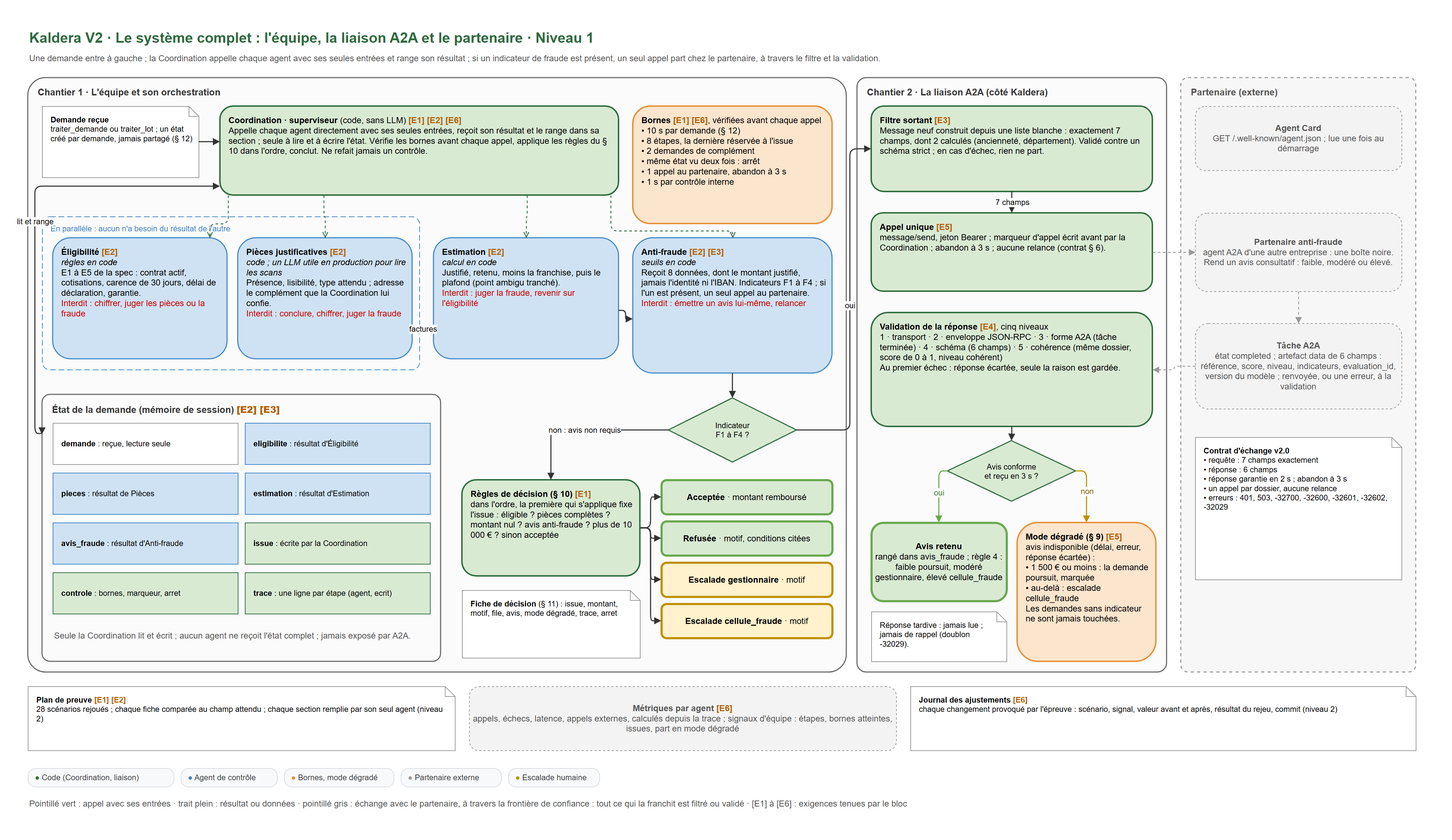
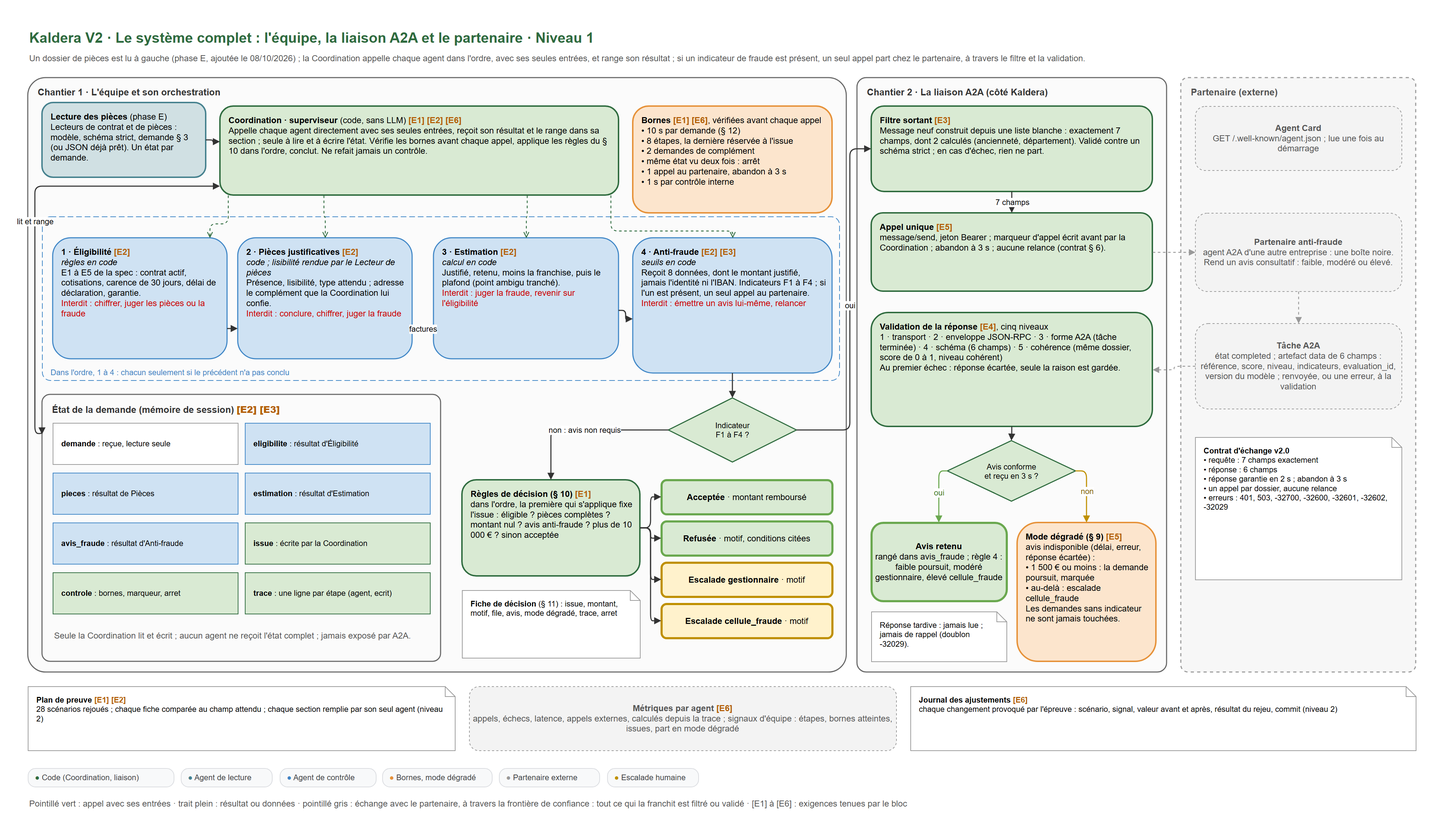
docs(schemas): lecture des pieces (schema E), carte des agents et N1 alignees sur le code
- schema E nouveau : du dossier de pieces (contrat PDF, images) au JSON de la spec 3,
  controles en code d'abord, modele avec schema strict, chemins illisible et panne
- schema 1 et N1 : les quatre controles en sequence avec court-circuit (et non plus
  en parallele), les deux agents de lecture en amont de la Coordination

diff --git a/scripts/make_schemas_ch1.py b/scripts/make_schemas_ch1.py
@@ -13,67 +13,105 @@ CENTRE = "align=center;verticalAlign=middle;spacingLeft=0;"
 # =============================================================================================================
 s = Schema()
 s.box("t", "Kaldera V2 · Carte des agents · Chantier 1", 30, 20, 1000, 30, S_TITRE)
-s.box("st", "Rôles, frontières, point ambigu tranché, dépendances et parallélisme. Fondé sur specs_metier.md (v3.2) "
-            "et interface.md : une section métier n'est écrite que par un seul agent, et un agent n'écrit qu'une seule section.",
-      30, 54, 1300, 22, S_SOUS)
+s.box("st", "Rôles, frontières, ordre d'exécution et point ambigu tranché. Mis à jour le 08/10/2026 : lecture des pièces "
+            "en amont (phase E), contrôles en séquence avec court-circuit (coordination.derouler).",
+      30, 54, 1360, 22, S_SOUS)
 
+# --- en amont : lecture des pièces (phase E) ---
+s.box("lect", "Avant la Coordination · Lecture des pièces (phase E), hors des 10 s de décision", 30, 88, 1360, 152,
+      S_CONTENEUR)
+s.box("docs", "<b>Pièces de l'assuré</b>, non structurées<br>contrat.pdf · images des pièces jointes (factures, photos, "
+              "dépôt de plainte) · dépôts de l'espace assuré · formulaire declaration.json",
+      50, 123, 290, 105, S_NOTE)
+s.box("lc", "<b>Lecteur de contrat</b> (modèle, schéma strict)<br>Texte du PDF : numéro, formule, date, statut, "
+            "cotisations.<br>" + ROUGE_TXT + "décider, deviner un champ." + FIN, 380, 123, 300, 105, S_LECTEUR)
+s.box("lp", "<b>Lecteur de pièces</b> (netteté en code, puis modèle)<br>Floue : illisible sans appel. Facture nette : "
+            "montant lu. Dans le doute : illisible.<br>" + ROUGE_TXT + "décider, inventer un montant." + FIN,
+      740, 123, 290, 105, S_LECTEUR)
+s.box("json", "<b>Demande au format § 3</b><br>la même que sur le chemin JSON. Contrat lu différent du déclaré, ou "
+              "modèle en panne : escalade gestionnaire, aucun contrôle lancé.", 1070, 123, 300, 105, S_NOTE)
+s.edge("r1", "docs", "lc", E_DEP, "", sortie=(1, 0.5), entree=(0, 0.5))
+s.edge("r2", "lc", "lp", E_DEP, "numéro<br>conforme", sortie=(1, 0.5), entree=(0, 0.5))
+s.edge("r3", "lp", "json", E_DEP, "", sortie=(1, 0.5), entree=(0, 0.5))
+s.edge("r4", "json", "orch", E_DEP, "demande § 3", sortie=(0.5, 1), entree=(0.9554, 0))
+
+# --- la Coordination et les quatre contrôles, dans l'ordre ---
 s.box("orch", "<b>Coordination</b> (code, sans LLM) · <b>écrit : issue</b> · seule à lire et à écrire l'état<br>"
-              "Délègue chaque contrôle, vérifie les bornes, applique les règles de décision dans l'ordre (spec § 10), "
-              "conclut la demande. Seule à conclure.<br>"
+              "Délègue chaque contrôle dans l'ordre, vérifie les bornes, applique les règles de décision (spec § 10) "
+              "et conclut dès qu'une règle s'applique. Seule à conclure.<br>"
               + ROUGE_TXT + "refaire un contrôle (éligibilité, pièces, montant, fraude)." + FIN,
-      380, 95, 700, 82, S_ORCH)
+      150, 270, 1120, 78, S_ORCH)
 
-s.box("par", "Exécutés en parallèle : aucun n'a besoin du résultat de l'autre", 30, 225, 440, 420, S_GROUPE)
-s.box("elig", "<b>Éligibilité</b> (règles en code) · <b>section : eligibilite</b><br><br>"
+s.box("elig", "<b>1 · Éligibilité</b> (règles en code) · <b>section : eligibilite</b><br><br>"
               "Vérifie E1 à E5 : contrat actif, cotisations, carence de 30 jours, délai de déclaration, garantie de la formule.<br>"
               "Renvoie : éligible oui ou non, conditions non remplies.<br><br>"
-              + ROUGE_TXT + "chiffrer la demande, appliquer le plafond, juger les pièces ou la fraude." + FIN,
-      50, 255, 400, 175, S_AGENT)
-s.box("pieces", "<b>Pièces justificatives</b> (code) · <b>section : pieces</b><br><br>"
-                "Vérifie présence, lisibilité et type attendu des pièces exigées. Adresse le complément via l'espace "
-                "assuré quand la Coordination le lui confie (demande éligible).<br>"
+              + ROUGE_TXT + "chiffrer, appliquer le plafond, juger les pièces ou la fraude." + FIN,
+      30, 395, 290, 180, S_AGENT)
+s.box("pieces", "<b>2 · Pièces justificatives</b> (code) · <b>section : pieces</b><br><br>"
+                "Vérifie présence, lisibilité (rendue par le Lecteur de pièces) et type attendu. Adresse le complément "
+                "quand la Coordination le lui confie, 2 fois au plus.<br>"
                 "Renvoie : complet, ou manquantes ; les factures lisibles.<br><br>"
-                + ROUGE_TXT + "conclure ou escalader la demande, chiffrer, juger la fraude, décider seul d'un complément." + FIN,
-      50, 445, 400, 185, S_AGENT)
-s.box("estim", "<b>Estimation</b> (règles en code) · <b>section : estimation</b><br><br>"
+                + ROUGE_TXT + "conclure, chiffrer, juger la fraude, décider seul d'un complément." + FIN,
+      386, 395, 290, 180, S_AGENT)
+s.box("estim", "<b>3 · Estimation</b> (règles en code) · <b>section : estimation</b><br><br>"
                "Montant justifié (factures lisibles), montant retenu (le plus petit des deux), "
                "moins la franchise, puis <b>plafond de la formule</b>.<br>"
                "Renvoie : montant justifié et montant estimé.<br><br>"
                + ROUGE_TXT + "juger la fraude, revenir sur l'éligibilité." + FIN,
-      540, 255, 360, 200, S_AGENT)
-s.box("fraude", "<b>Anti-fraude, liaison avec le partenaire</b> (code) · <b>section : avis_fraude</b><br><br>"
-                "Calcule les indicateurs F1 à F4. Si au moins un : un seul appel au partenaire, puis contrôle de sa réponse.<br>"
+      742, 395, 290, 180, S_AGENT)
+s.box("fraude", "<b>4 · Anti-fraude, liaison avec le partenaire</b> (code) · <b>section : avis_fraude</b><br><br>"
+                "Indicateurs F1 à F4. Si au moins un : un seul appel au partenaire, puis contrôle de sa réponse.<br>"
                 "Renvoie : non requis, avis (niveau et score), ou indisponible.<br><br>"
                 + ROUGE_TXT + "émettre un avis en interne, envoyer une donnée hors contrat, relancer un appel." + FIN,
-      1030, 255, 360, 220, S_AGENT)
+      1098, 395, 290, 180, S_AGENT)
+
+s.edge("d1", "orch", "elig", E_DELEG, "délègue", sortie=(0.0223, 1), entree=(0.5, 0))
+s.edge("d2", "orch", "pieces", E_DELEG, "", sortie=(0.3402, 1), entree=(0.5, 0))
+s.edge("d3", "orch", "estim", E_DELEG, "", sortie=(0.658, 1), entree=(0.5, 0))
+s.edge("d4", "orch", "fraude", E_DELEG, "", sortie=(0.9759, 1), entree=(0.5, 0))
+s.edge("s1", "elig", "pieces", E_DEP, "si<br>éligible", sortie=(1, 0.3), entree=(0, 0.3))
+s.edge("s2", "pieces", "estim", E_DEP, "si complet :<br>factures<br>lisibles", sortie=(1, 0.3), entree=(0, 0.3))
+s.edge("s3", "estim", "fraude", E_DEP, "si montant<br>> 0 :<br>montant<br>justifié", sortie=(1, 0.3), entree=(0, 0.3))
+
+# --- les courts-circuits : la Coordination conclut sans lancer la suite ---
+s.box("stop1", "Non éligible : <b>refusée</b> (règle 1)<br>les pièces ne sont jamais vérifiées", 30, 600, 290, 62, S_FIN_OK)
+s.box("stop2", "Pièces encore manquantes, ou aucun dépôt : <b>escalade gestionnaire</b> (règle 2)",
+      386, 600, 290, 62, S_FIN_ESC)
+s.box("stop3", "Montant nul après la franchise : <b>refusée</b> (règle 3)", 742, 600, 290, 62, S_FIN_OK)
+s.edge("k1", "elig", "stop1", E_OK, "non", sortie=(0.5, 1), entree=(0.5, 0))
+s.edge("k2", "pieces", "stop2", E_ESC, "non", sortie=(0.5, 1), entree=(0.5, 0))
+s.edge("k3", "estim", "stop3", E_OK, "non", sortie=(0.5, 1), entree=(0.5, 0))
+
 s.box("partenaire", "<b>Partenaire anti-fraude</b> (agent A2A externe)<br>"
                     "rend l'avis : faible, modéré ou élevé · contrat, filtre et mode dégradé : chantier 2",
-      1045, 600, 330, 80, S_EXT)
+      1098, 625, 290, 80, S_EXT)
+s.edge("x1", "fraude", "partenaire", E_EXT, "si au moins un indicateur", sortie=(0.3, 1), entree=(0.3, 0))
+s.edge("x2", "partenaire", "fraude", E_EXT, "avis à contrôler", sortie=(0.8, 0), entree=(0.8, 1))
 
-s.box("ambig", "<b>Point ambigu tranché : qui applique le plafond ?</b><br><br>"
-               "La spec range le plafond dans l'éligibilité (§ 4), mais « le contrôle d'éligibilité ne chiffre pas » (§ 2), "
-               "et l'estimation (§ 6) ne le cite pas. <b>Choix : l'Estimation</b>, parce que le plafond est un calcul de montant.<br><br>"
-               "<i>Preuve, scénario NOM-05 : 4 200 € déclarés, moins 300 € de franchise = 3 900 €, plafonnés à 3 000 €.</i>",
-      500, 560, 460, 190, S_AMBIG)
 s.box("autres", "<b>Autres frontières tranchées</b><br>"
                 "• Pièces manquantes : constatées par Pièces ; l'escalade est décidée par la Coordination (règle 2).<br>"
                 "• Montant justifié : calculé par l'Estimation (§ 6), à partir des factures lisibles fournies par Pièces.<br>"
                 "• Indicateurs F1 à F4 : Anti-fraude, après l'Estimation, car F4 compare le montant déclaré au montant justifié.",
-      30, 670, 440, 130, S_NOTE)
+      30, 735, 440, 130, S_NOTE)
+s.box("ambig", "<b>Point ambigu tranché : qui applique le plafond ?</b><br><br>"
+               "La spec range le plafond dans l'éligibilité (§ 4), mais « le contrôle d'éligibilité ne chiffre pas » (§ 2), "
+               "et l'estimation (§ 6) ne le cite pas. <b>Choix : l'Estimation</b>, parce que le plafond est un calcul de montant.<br><br>"
+               "<i>Preuve, scénario NOM-05 : 4 200 € déclarés, moins 300 € de franchise = 3 900 €, plafonnés à 3 000 €.</i>",
+      500, 735, 460, 160, S_AMBIG)
+s.box("ordre", "<b>Ordre et court-circuit</b> (coordination.derouler)<br>"
+               "1 Éligibilité, 2 Pièces (avec 2 compléments au plus), 3 Estimation, 4 Anti-fraude. Un contrôle n'est "
+               "lancé que si le précédent n'a pas conclu : une demande non éligible ne fait jamais vérifier ses pièces. "
+               "C'est la Coordination qui conclut, jamais l'agent.<br>"
+               "Après l'Anti-fraude : règle 4 (avis modéré ou élevé, mode dégradé), règle 5 (plus de 10 000 € : "
+               "gestionnaire), règle 6 (acceptée).", 990, 735, 400, 150, S_NOTE)
 
-s.edge("d1", "orch", "elig", E_DELEG, "délègue", [(420, 205), (410, 205)], sortie=(0.06, 1), entree=(0.9, 0))
-s.edge("d2", "orch", "estim", E_DELEG, "délègue", sortie=(0.4, 1), entree=(0.5, 0))
-s.edge("d3", "orch", "fraude", E_DELEG, "délègue", [(1000, 215), (1210, 215)], sortie=(0.89, 1), entree=(0.5, 0))
-s.edge("p1", "pieces", "estim", E_DEP, "factures lisibles", [(495, 540), (495, 400)], sortie=(1, 0.5), entree=(0, 0.6))
-s.edge("p2", "estim", "fraude", E_DEP, "montant justifié (pour F4)", sortie=(1, 0.5), entree=(0, 0.5))
-s.edge("x1", "fraude", "partenaire", E_EXT, "si au moins un indicateur", sortie=(0.4, 1), entree=(0.4, 0))
-s.edge("x2", "partenaire", "fraude", E_EXT, "avis à contrôler", [(1325, 560)], sortie=(0.85, 0), entree=(0.81, 1))
-
-s.legende([(VERT, "Code (coordination)"), (BLEU, "Agent de contrôle"), (ORANGE, "Point ambigu tranché"),
-           (ROUGE, "Frontière : interdit"), (GRIS, "Externe ou chantier 2")], 30, 830)
-s.box("lg2", "Trait plein : dépendance de données · pointillé vert : délégation · « section » : celle que remplit le résultat de l'agent, rangé par la Coordination",
-      30, 866, 900, 20, S_SOUS)
-s.ecrire("schema-1-carte-des-agents", "Carte des agents", 1420, 900)
+s.legende([(VERT, "Code (coordination)"), (CYAN, "Agent de lecture"), (BLEU, "Agent de contrôle"),
+           (ORANGE, "Point ambigu tranché"), (ROUGE, "Frontière : interdit"), (OK, "Décision"), (ESC, "Escalade"),
+           (GRIS, "Externe ou chantier 2")], 30, 920)
+s.box("lg2", "Trait plein : ordre ou données · pointillé vert : délégation · « section » : celle que remplit le résultat "
+             "de l'agent, rangé par la Coordination · agent de lecture : sa sortie est validée par un schéma strict",
+      30, 956, 1300, 20, S_SOUS)
+s.ecrire("schema-1-carte-des-agents", "Carte des agents", 1420, 990)
 
 # =============================================================================================================
 # Schéma 2 : l'orchestration et la terminaison garantie

diff --git a/scripts/make_schema_lecture.py b/scripts/make_schema_lecture.py
@@ -1,0 +1,97 @@
+# Schéma E de Kaldera V2 : la lecture des pièces (phase E), du document non structuré au JSON de la spec § 3.
+# Ajouté le 08/10/2026 : l'entrée réelle est un dossier de pièces (contrat PDF, photos de factures), et non un JSON.
+# Fondé sur le code du dépôt kaldera-bout-en-bout_v2 : src/kaldera/extraction/lecteurs.py et dossier.py.
+# Palette, styles et classe Schema : schema_commun.py.
+
+from schema_commun import *  # noqa: F403 (palette, styles, Schema)
+
+s = Schema()
+s.box("t", "Kaldera V2 · Lecture des pièces : du document au JSON de la spec § 3 · Phase E", 30, 20, 1300, 30, S_TITRE)
+s.box("st", "Les agents de lecture lisent et extraient, ils ne décident jamais. Le code teste d'abord ce qu'il sait "
+            "tester ; le modèle ne lit que ce que le code ne sait pas lire ; sa réponse passe par un schéma strict. "
+            "La chaîne de décision du chantier 1 reste inchangée.", 30, 54, 1540, 22, S_SOUS)
+
+# --- le dossier de l'assuré ---
+s.box("dos", "Dossier de l'assuré (dossiers/KAL-26-0101)", 30, 95, 300, 600, S_CONTENEUR)
+s.box("f_decl", "<b>declaration.json</b><br>formulaire : référence, assuré, sinistre, historique, numéro de contrat "
+                "déclaré", 45, 135, 270, 80, S_NOTE)
+s.box("f_ctr", "<b>contrat.pdf</b><br>texte, 3 mises en page", 45, 230, 270, 60, S_NOTE)
+s.box("f_fac", "<b>piece-1-facture.png</b><br>photo d'une facture", 45, 365, 270, 60, S_NOTE)
+s.box("f_pho", "<b>piece-2-photo.png</b>, <b>…-depot_plainte.png</b><br>le type vient du créneau choisi par "
+               "l'assuré", 45, 440, 270, 80, S_NOTE)
+s.box("f_dep", "<b>depots/1-facture.png</b><br>dépôts de l'espace assuré (compléments)", 45, 535, 270, 65, S_NOTE)
+s.box("f_n", "34 dossiers générés depuis les 34 demandes des scénarios : 34 PDF, 68 images (2 illisibles), 35 JSON.",
+      45, 615, 270, 70, S_SOUS)
+
+# --- lecteur de contrat ---
+s.box("gc", "Lecteur de contrat · lecteurs.lire_contrat · reçoit un PDF", 360, 95, 880, 200, S_GROUPE)
+s.box("c1", "<b>1 · Code</b><br>PyMuPDF extrait le texte du PDF, quelle que soit sa mise en page", 380, 130, 230, 95,
+      S_ORCH)
+s.box("c2", "<b>2 · Modèle</b> gpt-5.4 (Azure AI Foundry)<br>consigne, phrase de garde, texte entre balises<br>"
+            "→ schéma strict <b>ContratLu</b> : formule et statut en liste fermée, date valide, aucun champ en plus",
+      640, 130, 300, 145, S_LECTEUR)
+s.box("dnum", "Numéro lu =<br>numéro déclaré ?", 980, 135, 220, 110, S_LOSANGE)
+s.box("esc_num", "<b>Escalade gestionnaire</b><br>contrat lu différent du contrat déclaré : aucun contrôle lancé "
+                 "(escalade_directe)", 1270, 140, 300, 100, S_FIN_ESC)
+s.edge("e_c", "f_ctr", "c1", E_DEP, "", sortie=(1, 0.5), entree=(0, 0.5))
+s.edge("c12", "c1", "c2", E_DEP, "texte", sortie=(1, 0.5), entree=(0, 0.33))
+s.edge("c23", "c2", "dnum", E_DEP, "", sortie=(1, 0.4), entree=(0, 0.5))
+s.edge("cnon", "dnum", "esc_num", E_ESC, "non", sortie=(1, 0.5), entree=(0, 0.5))
+s.edge("coui", "dnum", "p1", E_OK, "oui : on lit les pièces", [(1090, 307), (495, 307)], sortie=(0.5, 1),
+       entree=(0.5, 0))
+
+# --- lecteur de pièces ---
+s.box("gp", "Lecteur de pièces · lecteurs.lire_piece · reçoit une image et son type", 360, 320, 1210, 390, S_GROUPE + "align=right;spacingRight=12;")
+s.box("p1", "<b>1 · Code</b><br>netteté de l'image (moyenne des contours) ; seuil 3,5, mesuré sur les 68 images",
+      380, 355, 230, 95, S_ORCH)
+s.box("dnet", "Nette ?", 640, 350, 170, 105, S_LOSANGE)
+s.box("p_flou", "<b>illisible</b><br>sans appel au modèle", 640, 485, 170, 70, S_NOTE)
+s.box("dtype", "Facture ?", 840, 350, 170, 105, S_LOSANGE)
+s.box("p_autre", "photo, dépôt de plainte :<br><b>lisible</b> (contenu non vérifié)", 840, 485, 170, 85, S_NOTE)
+s.box("p2", "<b>2 · Modèle</b><br>l'image et la phrase de garde → schéma strict <b>FactureLue</b> : lisible, "
+            "montant TTC", 1052, 340, 176, 125, S_LECTEUR)
+s.box("ddoute", "Lisible, montant<br>présent, positif ?", 1040, 490, 200, 110, S_LOSANGE)
+s.box("p_ok", "<b>lisible</b> et montant, arrondi au centime", 1290, 515, 260, 60, S_NOTE)
+s.box("p_dout", "<b>illisible</b> : dans le doute, jamais un montant inventé", 1040, 625, 200, 70, S_NOTE)
+for k, (fid, entree) in enumerate((("f_fac", 0.3), ("f_pho", 0.6), ("f_dep", 0.9))):
+    s.edge(f"e_p{k}", fid, "p1", E_DEP, "", sortie=(1, 0.5), entree=(0, entree))
+s.edge("p1n", "p1", "dnet", E_DEP, "", sortie=(1, 0.5), entree=(0, 0.5))
+s.edge("nnon", "dnet", "p_flou", E_DEP, "non", sortie=(0.5, 1), entree=(0.5, 0))
+s.edge("noui", "dnet", "dtype", E_DEP, "oui", sortie=(1, 0.5), entree=(0, 0.5))
+s.edge("tnon", "dtype", "p_autre", E_DEP, "non", sortie=(0.5, 1), entree=(0.5, 0))
+s.edge("toui", "dtype", "p2", E_DEP, "oui", sortie=(1, 0.5), entree=(0, 0.5))
+s.edge("p2d", "p2", "ddoute", E_DEP, "", sortie=(0.5, 1), entree=(0.5, 0))
+s.edge("doui", "ddoute", "p_ok", E_OK, "oui", sortie=(1, 0.5), entree=(0, 0.5))
+s.edge("dnon", "ddoute", "p_dout", E_DEP, "non", sortie=(0.5, 1), entree=(0.5, 0))
+
+# --- sorties : panne, demande § 3, chaîne de décision ---
+s.box("panne", "<b>Modèle en panne, délai ou réponse hors schéma</b> → ExtractionImpossible<br>"
+               "<b>Escalade gestionnaire</b> motivée, aucun contrôle lancé. Une panne n'est pas la faute de l'assuré : "
+               "on ne lui demande pas de complément.", 360, 735, 560, 105, S_FIN_ESC)
+s.box("json", "<b>Demande au format § 3</b><br>contrat lu, pièces et dépôts lus, formulaire ; identique à ce que "
+              "reçoit le chemin JSON", 950, 735, 300, 105, S_NOTE)
+s.box("chaine", "<b>Chaîne du chantier 1, inchangée</b><br>coordination.traiter : Éligibilité, Pièces, Estimation, "
+                "Anti-fraude, règles § 10, fiche de décision", 1280, 735, 290, 105, S_ORCH)
+s.edge("gpan", "gp", "panne", E_ESC, "lecture impossible (contrat ou facture)", sortie=(0.15, 1), entree=(0.3232, 0))
+s.edge("gjs", "gp", "json", E_DEP, "contrat, pièces et dépôts lus", sortie=(0.5496, 1), entree=(0.25, 0))
+s.edge("form", "dos", "json", E_DEP, "formulaire (declaration.json)", [(180, 875), (1100, 875)], sortie=(0.5, 1),
+       entree=(0.5, 1))
+s.edge("jch", "json", "chaine", E_DEP, "", sortie=(1, 0.5), entree=(0, 0.5))
+
+# --- garde-fous et mesure ---
+s.box("garde", "<b>Garde-fous</b><br>• Le texte d'un document est une donnée, jamais une consigne : phrase de garde "
+               "dans chaque consigne, document entre balises.<br>• Clé dans .env, jamais dans le code ni dans Git ; "
+               "délai de 60 s, aucune relance automatique.<br>• Lecture tracée à part (agent, fichier, statut, durée, "
+               "appel au modèle), avant les 10 s de la chaîne de décision.", 30, 900, 760, 110, S_NOTE)
+s.box("mesure", "<b>Mesure E4</b> (08/10/2026, 34 dossiers, gpt-5.4)<br>100 % sur chaque champ (5 du contrat, "
+                "33 montants, 68 lisibilités) · 34/34 décisions identiques au chemin JSON · 0 lecture impossible · "
+                "67 appels en 25,1 s (6 en parallèle) · facture : moyenne 2,35 s, max 6,46 s.<br>"
+                "<i>Limites : documents de synthèse et propres ; 2 images illisibles seulement, attrapées par le code ; "
+                "le contenu des photos n'est pas vérifié.</i>", 810, 900, 760, 110, S_AMBIG)
+
+s.legende([(VERT, "Code, sans modèle"), (CYAN, "Modèle, schéma strict"), (OK, "Suite normale"),
+           (ESC, "Escalade gestionnaire"), (ORANGE, "Mesure")], 30, 1030)
+s.box("lg2", "Losange : test en code · note : résultat de lecture · « illisible » mène à une demande de complément "
+             "(règle 2) ; une panne mène à une escalade, jamais à une demande faite à l'assuré",
+      30, 1066, 1400, 20, S_SOUS)
+s.ecrire("schema-E-lecture-des-pieces", "Lecture des pièces", 1600, 1100)

diff --git a/scripts/make_schemas_vues.py b/scripts/make_schemas_vues.py
@@ -1,5 +1,6 @@
 # Vues d'ensemble de Kaldera V2, en trois niveaux : N0 les enjeux et les six exigences, N1 le système complet
-# (chantier 1, chantier 2 et partenaire), N2 l'épreuve du réel. Fondées sur l'état de la conception au 07/10/2026.
+# (chantier 1, chantier 2 et partenaire), N2 l'épreuve du réel. Fondées sur l'état de la conception au 07/10/2026 ;
+# N1 mis à jour le 08/10/2026 (lecture des pièces, contrôles dans l'ordre).
 # Palette, styles et classe Schema : schema_commun.py.
 
 from schema_commun import *  # noqa: F403 (palette, styles, Schema)
@@ -78,8 +79,9 @@ s.ecrire("schema-N0-enjeux-exigences", "Niveau 0 · Enjeux et exigences", 1500, 
 # =============================================================================================================
 s = Schema()
 s.box("t", "Kaldera V2 · Le système complet : l'équipe, la liaison A2A et le partenaire · Niveau 1", 30, 20, 1500, 30, S_TITRE)
-s.box("st", "Une demande entre à gauche ; la Coordination appelle chaque agent avec ses seules entrées et range son résultat ; "
-            "si un indicateur de fraude est présent, un seul appel part chez le partenaire, à travers le filtre et la validation.",
+s.box("st", "Un dossier de pièces est lu à gauche (phase E, ajoutée le 08/10/2026) ; la Coordination appelle chaque agent dans "
+            "l'ordre, avec ses seules entrées, et range son résultat ; si un indicateur de fraude est présent, un seul appel part "
+            "chez le partenaire, à travers le filtre et la validation.",
       30, 54, 1900, 22, S_SOUS)
 
 s.box("ch1", "Chantier 1 · L'équipe et son orchestration", 30, 95, 1150, 835, S_CONTENEUR)
@@ -88,8 +90,9 @@ s.box("ext", "Partenaire (externe)", 1650, 95, 330, 835,
       S_CONTENEUR + f"fillColor=#f7f7f7;strokeColor={GRIS};dashed=1;fontColor=#555555;")
 
 # --- chantier 1 ---
-s.box("recv", "<b>Demande reçue</b><br>traiter_demande ou traiter_lot ; un état créé par demande, jamais partagé (§ 12)",
-      50, 135, 220, 100, S_NOTE)
+s.box("recv", "<b>Lecture des pièces</b> (phase E)<br>Lecteurs de contrat et de pièces : modèle, schéma strict, "
+               "demande § 3 (ou JSON déjà prêt). Un état par demande.",
+      50, 130, 230, 105, S_LECTEUR)
 s.box("coord", f"<b>Coordination · superviseur</b> (code, sans LLM) {e(1, 2, 6)}<br>"
                "Appelle chaque agent directement avec ses seules entrées, reçoit son résultat et le range dans sa section ; "
                "seule à lire et à écrire l'état. Vérifie les bornes avant chaque appel, applique les règles du § 10 "
@@ -97,19 +100,19 @@ s.box("coord", f"<b>Coordination · superviseur</b> (code, sans LLM) {e(1, 2, 6)
 s.box("bornes", f"<b>Bornes</b> {e(1, 6)}, vérifiées avant chaque appel<br>"
                 "• 10 s par demande (§ 12)<br>• 8 étapes, la dernière réservée à l'issue<br>• 2 demandes de complément<br>"
                 "• même état vu deux fois : arrêt<br>• 1 appel au partenaire, abandon à 3 s<br>• 1 s par contrôle interne",
-      880, 135, 280, 165, S_AMBIG)
+      880, 135, 280, 150, S_AMBIG)
 
-s.box("par", "En parallèle : aucun n'a besoin du résultat de l'autre", 50, 290, 530, 215, S_GROUPE)
-s.box("elig", f"<b>Éligibilité</b> {e(2)}<br><i>règles en code</i><br>"
+s.box("par", "Dans l'ordre, 1 à 4 : chacun seulement si le précédent n'a pas conclu", 50, 290, 1120, 230, S_GROUPE + "verticalAlign=bottom;spacingBottom=2;")
+s.box("elig", f"<b>1 · Éligibilité</b> {e(2)}<br><i>règles en code</i><br>"
               "E1 à E5 de la spec : contrat actif, cotisations, carence de 30 jours, délai de déclaration, garantie.<br>"
               + interdit("chiffrer, juger les pièces ou la fraude"), 65, 320, 245, 170, S_AGENT)
-s.box("pieces", f"<b>Pièces justificatives</b> {e(2)}<br><i>code ; un LLM utile en production pour lire les scans</i><br>"
+s.box("pieces", f"<b>2 · Pièces justificatives</b> {e(2)}<br><i>code ; lisibilité rendue par le Lecteur de pièces</i><br>"
                 "Présence, lisibilité, type attendu ; adresse le complément que la Coordination lui confie.<br>"
                 + interdit("conclure, chiffrer, juger la fraude"), 325, 320, 245, 170, S_AGENT)
-s.box("estim", f"<b>Estimation</b> {e(2)}<br><i>calcul en code</i><br>"
+s.box("estim", f"<b>3 · Estimation</b> {e(2)}<br><i>calcul en code</i><br>"
                "Justifié, retenu, moins la franchise, puis le plafond (point ambigu tranché).<br>"
                + interdit("juger la fraude, revenir sur l'éligibilité"), 600, 320, 260, 170, S_AGENT)
-s.box("af", f"<b>Anti-fraude</b> {e(2, 3)}<br><i>seuils en code</i><br>"
+s.box("af", f"<b>4 · Anti-fraude</b> {e(2, 3)}<br><i>seuils en code</i><br>"
             "Reçoit 8 données, dont le montant justifié, jamais l'identité ni l'IBAN. Indicateurs F1 à F4 ; si l'un est présent, un seul appel "
             "au partenaire.<br>" + interdit("émettre un avis lui-même, relancer"), 880, 320, 280, 190, S_AGENT)
 
@@ -118,6 +121,7 @@ s.edge("d1", "coord", "elig", E_DELEG, "", [(311, 300), (285, 300)], sortie=(0.0
 s.edge("d2", "coord", "pieces", E_DELEG, "", sortie=(0.26, 1), entree=(0.5, 0))
 s.edge("d3", "coord", "estim", E_DELEG, "", sortie=(0.77, 1), entree=(0.5, 0))
 s.edge("d4", "coord", "af", E_DELEG, "", [(849, 310), (1020, 310)], sortie=(0.98, 1), entree=(0.5, 0))
+s.edge("p0", "elig", "pieces", E_DEP, "", sortie=(1, 0.75), entree=(0, 0.75))
 s.edge("p1", "pieces", "estim", E_DEP, "factures", sortie=(1, 0.75), entree=(0, 0.75))
 s.edge("p2", "estim", "af", E_DEP, "", sortie=(1, 0.6), entree=(0, 0.6))
 
@@ -197,7 +201,7 @@ s.box("metr", f"<b>Métriques par agent</b> {e(6)}<br>appels, échecs, latence, 
 s.box("journal", f"<b>Journal des ajustements</b> {e(6)}<br>chaque changement provoqué par l'épreuve : scénario, signal, "
                  "valeur avant et après, résultat du rejeu, commit (niveau 2)", 1270, 950, 710, 90, S_NOTE)
 
-s.legende([(VERT, "Code (Coordination, liaison)"), (BLEU, "Agent de contrôle"), (ORANGE, "Bornes, mode dégradé"),
+s.legende([(VERT, "Code (Coordination, liaison)"), (CYAN, "Agent de lecture"), (BLEU, "Agent de contrôle"), (ORANGE, "Bornes, mode dégradé"),
            (GRIS, "Partenaire externe"), (ESC, "Escalade humaine")], 30, 1065)
 s.box("lg2", "Pointillé vert : appel avec ses entrées · trait plein : résultat ou données · pointillé gris : échange avec "
              "le partenaire, à travers la frontière de confiance : tout ce qui la franchit est filtré ou validé · [E1] à [E6] : exigences tenues par le bloc", 30, 1101, 1300, 20, S_SOUS)

diff --git a/scripts/schema_commun.py b/scripts/schema_commun.py
@@ -20,6 +20,7 @@ ROUGE = "#cc0000"     # interdit (frontière)
 OK = "#6aa84f"        # état final : décision
 ESC = "#bf9000"       # état final : escalade
 VIOLET = "#8e7cc3"    # question métier
+CYAN = "#45818e"      # agent de lecture : un modèle lit un document, sortie validée par un schéma strict
 
 BASE = "whiteSpace=wrap;html=1;fontFamily=Arial;fontSize=12;"
 GAUCHE = "align=left;spacingLeft=10;spacingRight=8;verticalAlign=top;spacingTop=6;"
@@ -28,6 +29,7 @@ S_TITRE = f"text;html=1;fontFamily=Arial;fontSize=20;fontStyle=1;fontColor={VERT
 S_SOUS = "text;html=1;fontFamily=Arial;fontSize=12;fontColor=#555555;align=left;verticalAlign=top;whiteSpace=wrap;"
 S_ORCH = BASE + GAUCHE + f"rounded=1;fillColor=#d9ead3;strokeColor={VERT};strokeWidth=2;"
 S_AGENT = BASE + GAUCHE + f"rounded=1;fillColor=#cfe2f3;strokeColor={BLEU};strokeWidth=1.5;"
+S_LECTEUR = BASE + GAUCHE + f"rounded=1;fillColor=#d0e0e3;strokeColor={CYAN};strokeWidth=2;"
 S_AMBIG = BASE + GAUCHE + f"rounded=1;fillColor=#fce5cd;strokeColor={ORANGE};strokeWidth=2;"
 S_EXT = BASE + f"rounded=1;fillColor=#f3f3f3;strokeColor={GRIS};dashed=1;fontColor=#555555;"
 S_NOTE = BASE + GAUCHE + "shape=note;size=14;fillColor=#ffffff;strokeColor=#999999;fontSize=11;"
